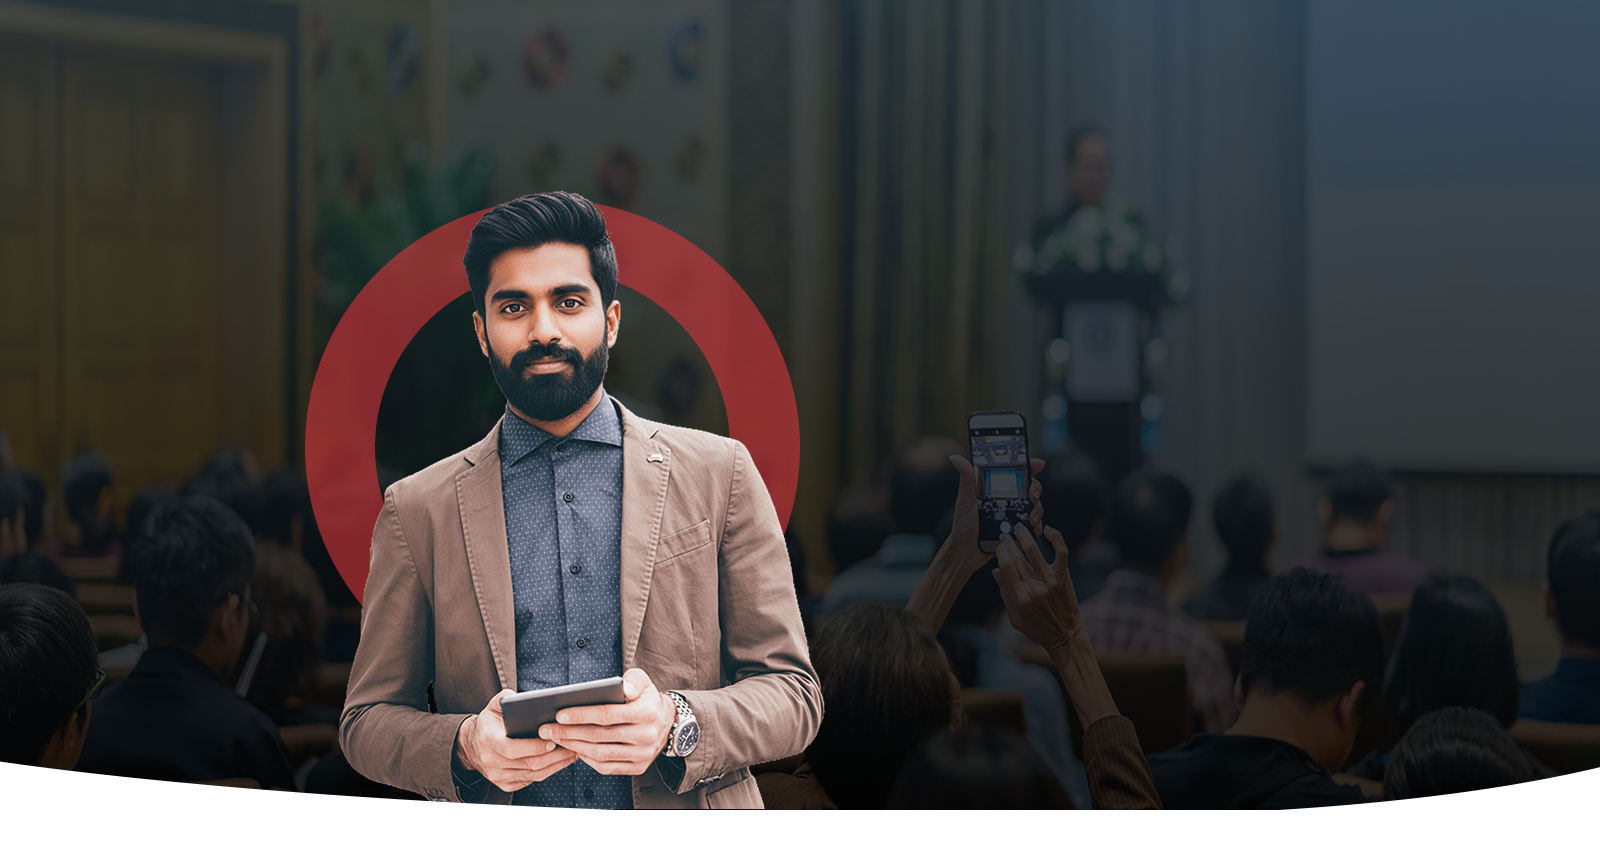
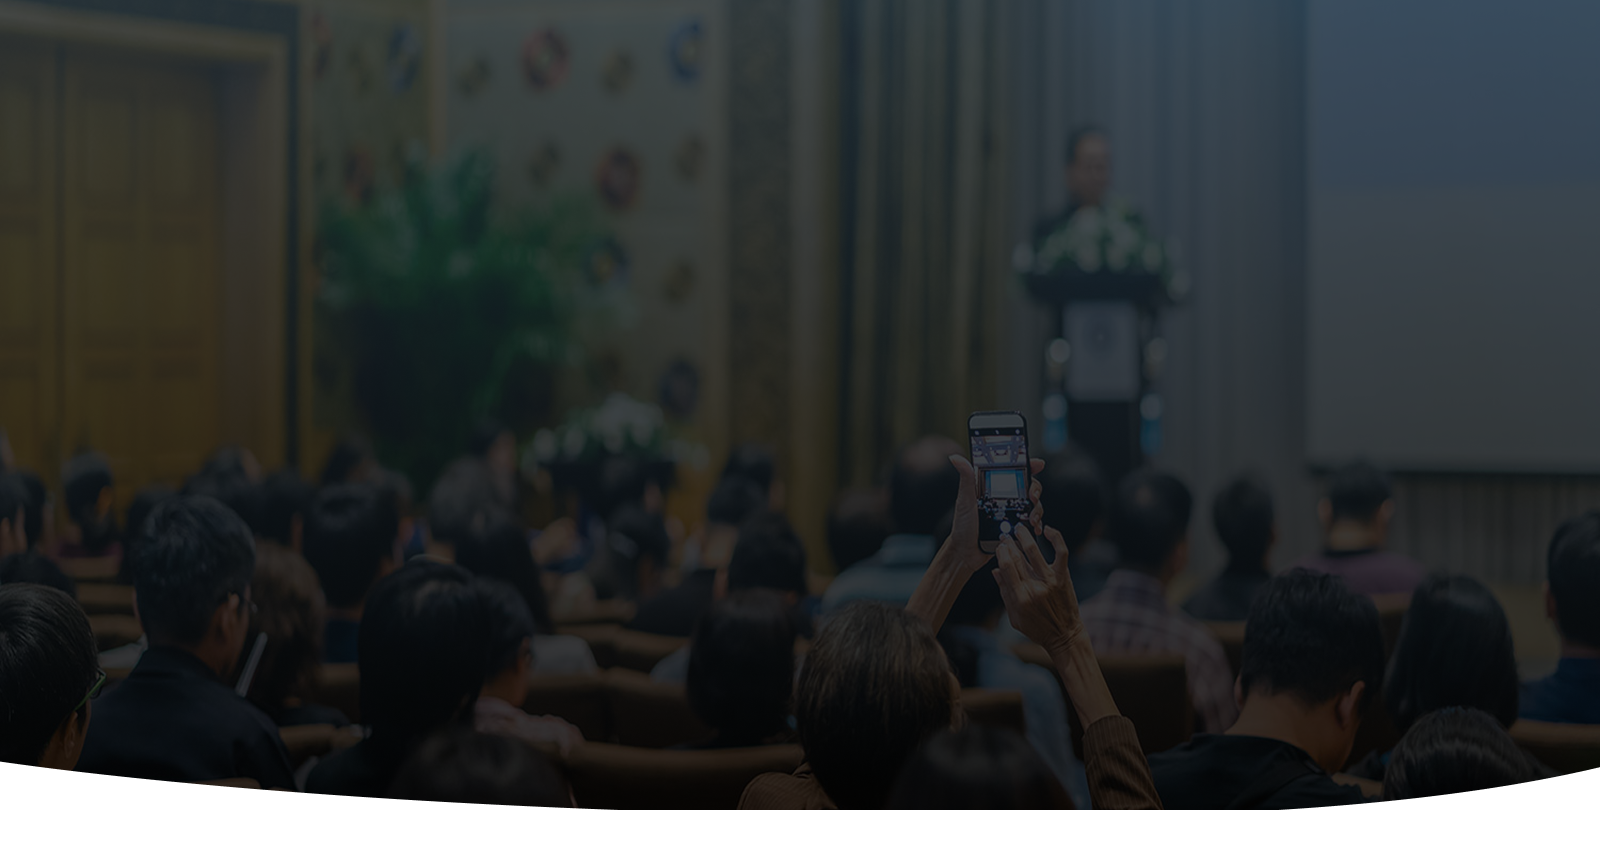
Fixing

Changed region(s): [[0.1875, 0.2141, 0.5312, 0.9788]]

diff --git a/components/homepage/hero-section.tsx b/components/homepage/hero-section.tsx
@@ -9,43 +9,45 @@ export default function HomeHero() {
 
   const events = [
     {
-      title: "Regulatory & Policy Framework in the Power Sector",
+      title: "Regulators & Policy Makers Retreat",
+      desc: "The Evolving Power Sector: Navigating Geopolitics, Markets & India’s Energy Transition",
       date: "25th to 27th September 2025",
       location: "Shoonya Farm Retreat, Belagavi, Karnataka",
-      video: "/home/background.mp4",
+      image: "/hero.png",
     },
     {
       title: "Renewable Energy Policy Summit",
+      desc: " Driving Sustainable Growth through Innovative Policies",
       date: "15th to 17th October 2025",
       location: "Green Valley Resort, Pune, Maharashtra",
-      video: "/home/background.mp4",
+      image: "/hero.png",
     },
     {
       title: "Smart Grid Infrastructure Conference",
+      desc: "Building Resilient and Efficient Energy Networks for the Future",
       date: "20th to 22nd November 2025",
       location: "Tech Park Convention Center, Bangalore",
-      video: "/home/background.mp4",
+      image: "/hero.png",
     },
     {
       title: "Energy Transition Workshop",
+      desc: "Accelerating the Shift to Clean and Renewable Energy Sources",
       date: "10th to 12th December 2025",
       location: "Coastal Resort, Goa",
-      video: "/home/background.mp4",
+      image: "/hero.png",
     },
   ];
 
   return (
     <div className="relative">
       <div className="absolute inset-0 w-screen h-screen overflow-hidden">
-        <video
-          className="absolute inset-0 w-full h-full object-cover"
-          autoPlay
-          muted
-          loop
-          playsInline
-        >
-          <source src={events[currentEvent].video} type="video/mp4" />
-        </video>
+        <Image
+          src={events[currentEvent].image}
+          alt="Event background"
+          fill
+          className="object-cover"
+          priority
+        />
         <div className="absolute inset-0 bg-black/40"></div>
       </div>
 
@@ -54,31 +56,12 @@ export default function HomeHero() {
         <main className="flex max-w-[1100px] mx-auto flex-col items-start justify-center min-h-[calc(100vh-120px)] lg:mt-2">
           <div className=" w-full">
             <div className="text-center mb-12">
-              <h1 className="text-left text-2xl sm:text-3xl md:text-4xl lg:text-5xl xl:text-[40px] 2xl:text-7xl font-bold font-red-hat-display text-white mb-6 leading-[150%]">
-                Intensive Course on
-                <br />
-                Regulatory & Policy{" "}
-                <span className="relative inline-block">
-                  Framework
-                  <Image
-                    src="/optimized/line.webp"
-                    alt=""
-                    width={400}
-                    height={20}
-                    className="absolute -bottom-2 left-0 w-full h-auto max-w-[200px] sm:max-w-[250px] md:max-w-[300px] lg:max-w-[350px] xl:max-w-[400px] opacity-80"
-                    loading="lazy"
-                  />
-                </span>
-                <br />
-                in the{" "}
-                <span className="relative bg-gradient-to-r from-[#D3363B] to-[#EA7A7D] bg-clip-text text-transparent">
-                  Power Sector
-                </span>
+              <h1 className="md:max-w-md text-left text-2xl sm:text-3xl md:text-4xl lg:text-5xl xl:text-[40px] 2xl:text-7xl font-bold font-red-hat-display text-white mb-6 leading-[150%]">
+                {events[currentEvent].title}
               </h1>
 
-              <p className="text-left text-xs sm:text-sm md:text-base xl:text-base font-light font-poppins text-white leading-none mt-5 max-w-2xl">
-                IPPAI brings together policymakers, regulators, and industry
-                leaders to shape India&apos;s energy and infrastructure future.
+              <p className="md:max-w-md text-left text-xs sm:text-sm md:text-base xl:text-base font-light font-poppins text-white leading-none mt-5 max-w-2xl">
+                {events[currentEvent].desc}
               </p>
             </div>
 
